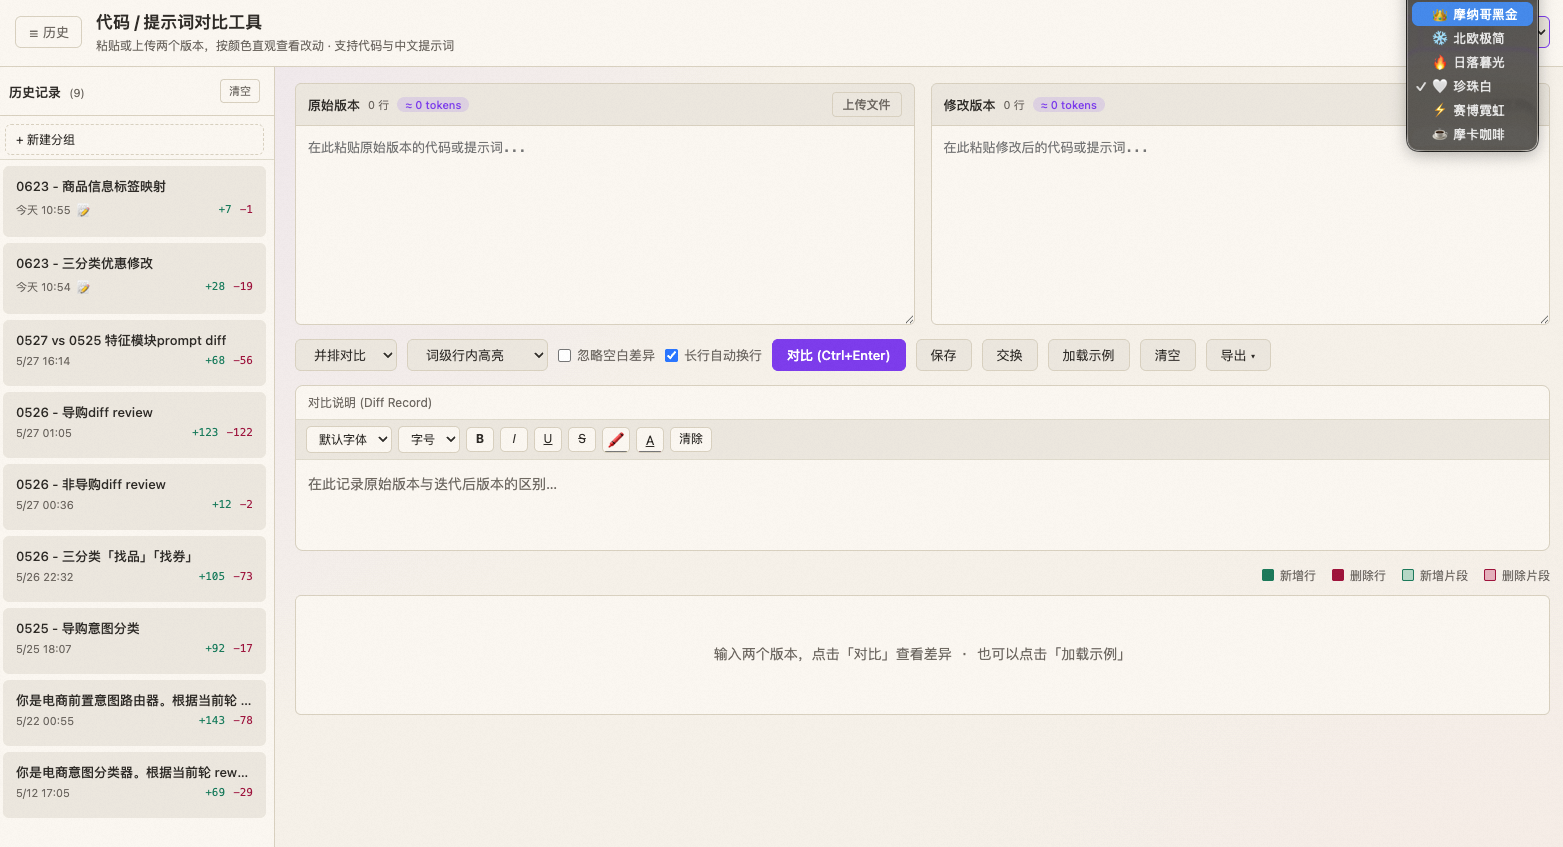
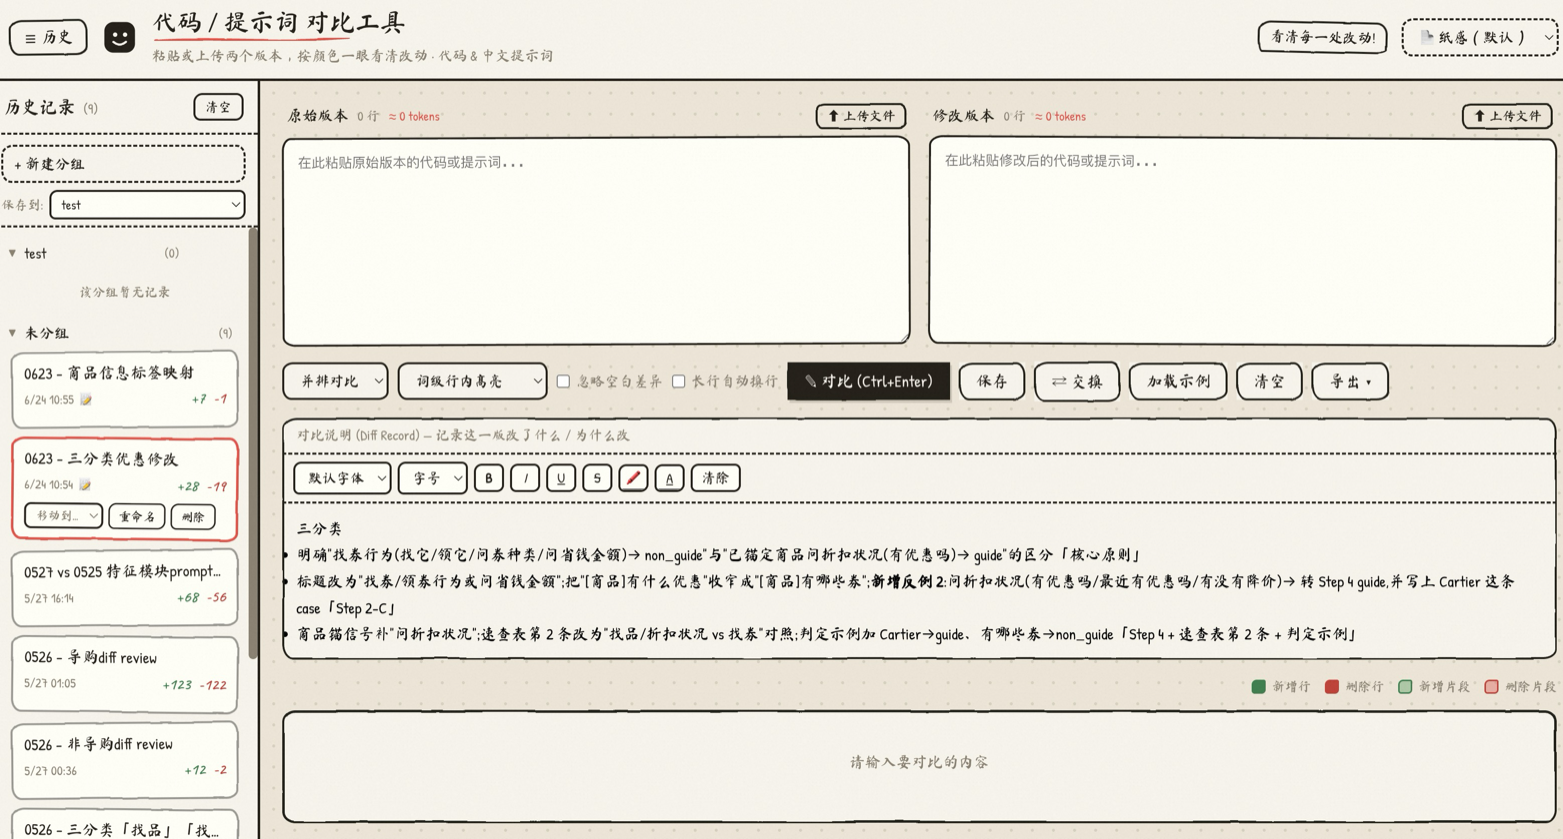
feat: make the V2 offline bundle the main app, fix page scrolling
Replaces the old ~270 KB single-file index.html with the self-contained
"dc"-framework build (~15 MB; all fonts, themes and the html2canvas export
library embedded).

- fix(scroll): the framework wraps the app in block-level #dc-root and
  .sc-host between body{display:flex;flex-direction:column;height:100vh}
  and .app-body{flex:1}, so flex:1 never got a bounded height and <main>
  could not scroll -- the comparison output below the fold was clipped by
  body{overflow:hidden}. Neutralize the wrappers with display:contents
  (verified in headless Chrome: main scrollHeight 4824 > clientHeight 731;
  sidebar still scrolls).
- offline: drop the injected g.alicdn.com tracker script and the Google
  Fonts preconnect hints (fonts are embedded blobs) -- live DOM now has
  zero external references.
- compat: pre-decompress the only 2 gzip assets (one is the app bundle) so
  the loader no longer requires DecompressionStream (Safari 16.4+).
- docs: refresh hero screenshot; correct size (270 KB -> 15 MB) and theme
  count (11 -> 13).

Changed region(s): [[0.0, 0.0, 1.0, 1.0], [0.5528, 0.8987, 0.6449, 0.9297]]

diff --git a/README.md b/README.md
@@ -14,13 +14,13 @@
 
 ## 🌐 English summary
 
-A tiny, offline diff viewer for code & LLM prompts. Side-by-side or unified view, word/char/line-level inline highlighting, 11 color themes, history with grouping, a **rich-text "Diff Record" box** for annotating what changed between versions, and live token-count deltas — all stored locally in your browser — **no network calls, ever**.
+A self-contained, offline diff viewer for code & LLM prompts. Side-by-side or unified view, word/char/line-level inline highlighting, 13 color themes, history with grouping, a **rich-text "Diff Record" box** for annotating what changed between versions, and live token-count deltas — all stored locally in your browser — **no network calls, ever**.
 
 - **macOS users** → download [CodeReviewTool.dmg](https://github.com/Looperswag/diff-viewer/releases/latest/download/CodeReviewTool.dmg)
 - **Any other OS / just want the web app** → download [index.html](https://github.com/Looperswag/diff-viewer/releases/latest/download/index.html), double-click to open in your browser
 - **PDF / long-screenshot export** built in — share two-version diffs as a single file with teammates
 
-The whole tool is a single self-contained HTML file (~270 KB) with html2canvas inlined. No build step. No tracking. Right-click → Open on first macOS launch (ad-hoc signed, not notarized).
+The whole tool is a single self-contained HTML file (~15 MB — all fonts, themes and the html2canvas export library are embedded so it runs 100% offline). No build step. No tracking. Right-click → Open on first macOS launch (ad-hoc signed, not notarized).
 
 ---
 
@@ -43,7 +43,7 @@ The whole tool is a single self-contained HTML file (~270 KB) with html2canvas i
 | 📝 **对比说明（Diff Record）** | 富文本批注框，用文字记录原始版本与迭代版本的区别：支持中英字体、字号、加粗 / 斜体 / 下划线 / 删除线、高亮与文字颜色；随「保存」一起进入历史记录，随导出写入 PDF / 长图 |
 | 📤 **导出 PDF / 长图 PNG** | 一键导出当前对比结果，标题 + 时间戳 + 对比说明 + 完整 diff 一张图分享 |
 | 📚 **历史 + 分组** | 任意保存对比快照（含对比说明），左侧侧边栏自由切换、可拖入分组归类，带批注的记录有 📝 标记 |
-| 🎨 **11 套主题** | 经典深 / 浅、液态玻璃、极光梦境、樱花 Ins、摩纳哥黑金、北欧极简、日落暮光、珍珠白、赛博霓虹、摩卡咖啡 |
+| 🎨 **13 套主题** | 经典深 / 浅、液态玻璃、极光梦境、樱花 Ins、摩纳哥黑金、北欧极简、日落暮光、珍珠白、赛博霓虹、摩卡咖啡、复古打字机、漫画分镜 |
 | 🔧 **辅助选项** | 忽略空白差异、长行自动换行、文件直接上传、左右一键交换 |
 | 🔒 **完全本地** | 不联网、不 telemetry、所有数据只在你本机的 `localStorage` |
 | 📦 **零依赖单文件** | `index.html` 一个文件就是全部，html2canvas 已内联，可以扔到任何浏览器 |
@@ -60,7 +60,7 @@ The whole tool is a single self-contained HTML file (~270 KB) with html2canvas i
 
 - 系统要求：macOS 11 Big Sur 及以上
 - 架构：通用二进制（arm64 + x86_64），M 系列芯片和 Intel 都支持
-- 体积：DMG 约 1.7 MB / App 约 1.8 MB
+- 体积：约 15 MB（已把全部字体 / 主题 / 导出库内嵌进单文件，完全离线）
 
 ### 其他系统 / 想直接用浏览器
 